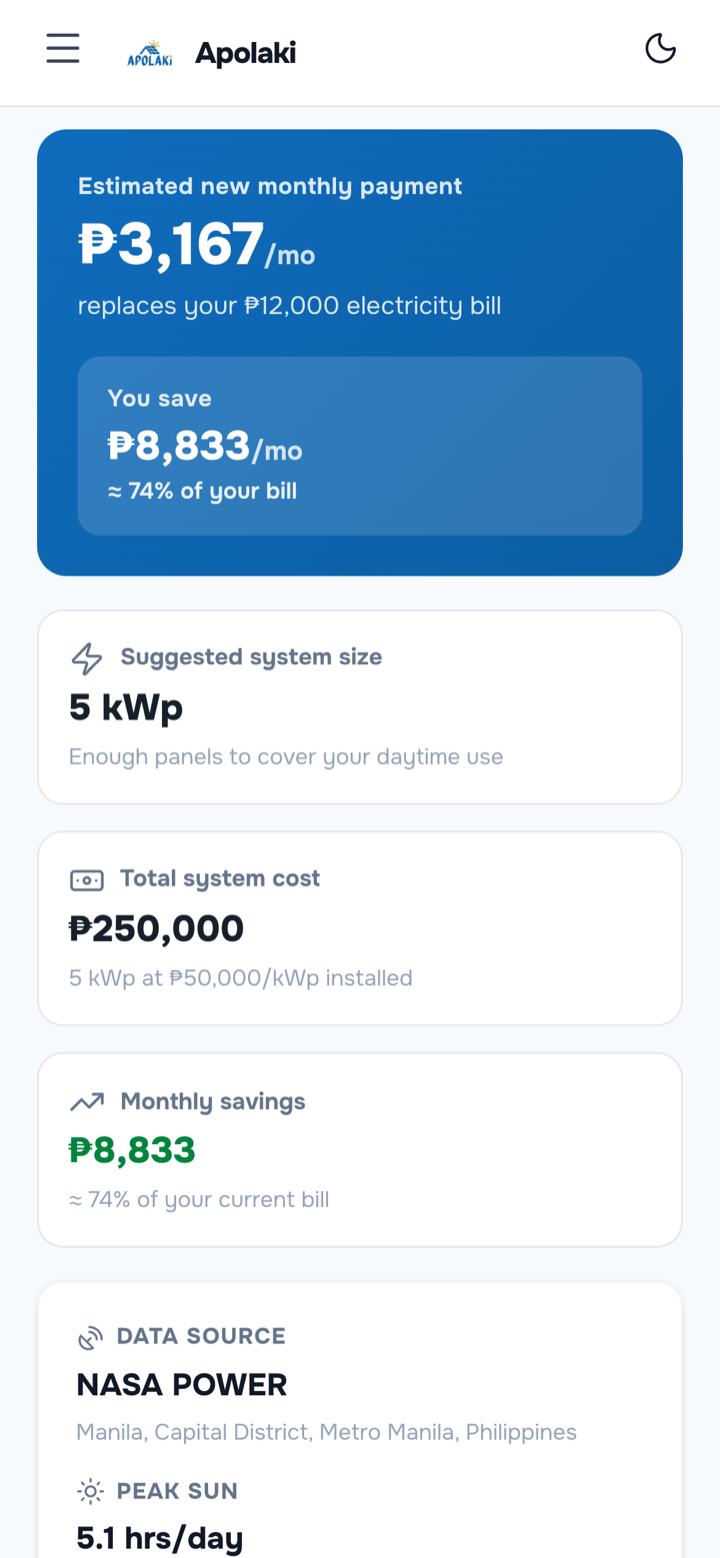
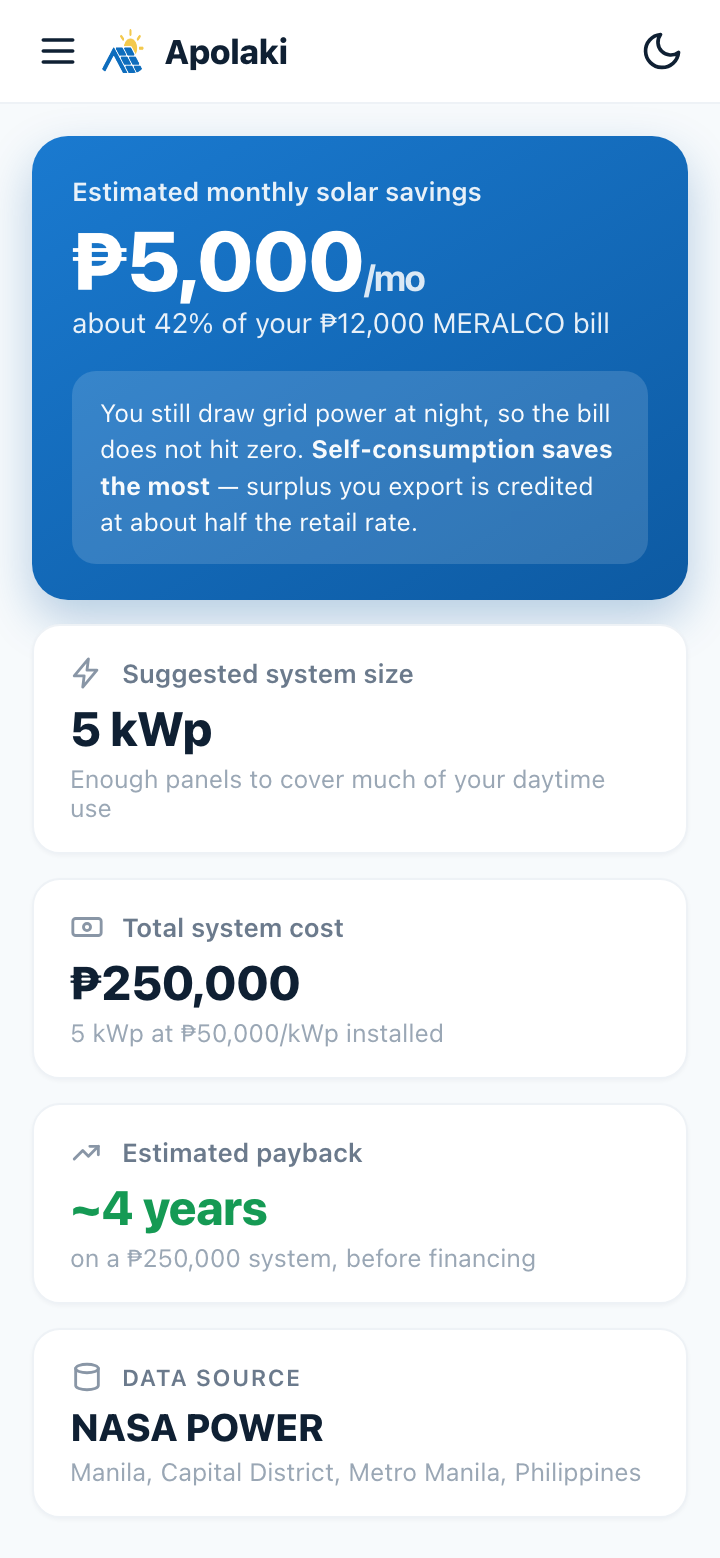
fix: correct impossible savings claim + net-billing accuracy (P0/P1)
The homepage results screenshot claimed ₱8,833/mo savings (= ₱12,000 bill
− ₱3,167 loan, a 100% bill wipe-out) — physically impossible for a 5 kWp
system (~525 kWh/mo × even the ₱14.48/kWh all-time-high = ₱7,957) and it
implied a 2.36-yr payback vs the site's own "3–5 years".

- index.html: results alt-text → realistic ~₱5,000/mo (~42% of bill), ~4-yr payback
- assets/screens/03-results.{png,webp}: regenerated (720×1558) — the impossible
  number was baked into the image (shown 2×); now ~₱5,000/mo · 5 kWp · ₱250k ·
  ~4-yr payback with a net-billing note; loan ₱3,167 → ₱5,000
- blog/is-solar-worth-it: yield reconciled 0.80 PR/1,450/7,250 → 0.73/1,320/6,600
  (was ~10% above the homepage basis)
- net-metering + meralco pages: 1:1 "billed only for net usage" → net-BILLING
  (exports credited at ~half the retail rate); visible copy + JSON-LD
- netlify.toml: 301 apolaki-ph.netlify.app/* → apolaki.ai (duplicate-host)

Basis: conservative 70% derate × 5 peak-sun-h × 30 d = 525 kWh/mo; MERALCO
retail ~₱13.50/kWh (verified); PH net-billing exports ~₱6–7/kWh.

Claude-Session: https://claude.ai/code/session_01VHmsiGHSRRyWzPMxFCksHG

diff --git a/blog/is-solar-worth-it-philippines-2026.html b/blog/is-solar-worth-it-philippines-2026.html
@@ -80,12 +80,12 @@
 
       <h2>The honest economics: a 5 kW worked example</h2>
       <p>Let us walk through real numbers instead of brochure promises. A useful planning figure for a quality installed system in 2026 is around <strong>₱50,000 per kW</strong> — that includes panels, inverter, mounting, wiring and labour. Treat it as a guide, not a quote; sites vary. A typical Metro Manila home that wants to cover most of its daytime use lands around <strong>5 kW</strong>, which works out to roughly <strong>₱250,000</strong> installed.</p>
-      <p>Now the production side. Metro Manila gets about <strong>1,817 sun-hours a year</strong>. After real-world losses — heat, dust, wiring, inverter conversion — a well-designed rooftop array delivers around a <strong>0.80 performance ratio</strong>, which lands at roughly <strong>1,450 kWh per kW per year</strong>. So our 5 kW system makes about <strong>7,250 kWh a year</strong>.</p>
+      <p>Now the production side. Metro Manila gets about <strong>1,817 sun-hours a year</strong>. After real-world losses — heat, dust, wiring, inverter conversion — a well-designed rooftop array delivers around a <strong>0.73 performance ratio</strong>, which lands at roughly <strong>1,320 kWh per kW per year</strong>. So our 5 kW system makes about <strong>6,600 kWh a year</strong>.</p>
       <p>At a blended rate of about <strong>₱11.50 per kWh</strong>, here is what that energy is worth:</p>
       <ul>
         <li><strong>System size:</strong> 5 kW · about ₱250,000 installed (at ~₱50,000/kW)</li>
-        <li><strong>Annual generation:</strong> ~7,250 kWh (5 kW × ~1,450 kWh/kW/yr at ~0.80 PR)</li>
-        <li><strong>Value of that energy:</strong> ~7,250 kWh × ₱11.50 ≈ <strong>₱83,000 a year</strong> when you use or offset most of it</li>
+        <li><strong>Annual generation:</strong> ~6,600 kWh (5 kW × ~1,320 kWh/kW/yr at ~0.73 PR)</li>
+        <li><strong>Value of that energy:</strong> ~6,600 kWh × ₱11.50 ≈ <strong>₱76,000 a year</strong> when you use or offset most of it</li>
         <li><strong>Simple payback:</strong> commonly <strong>3–5 years</strong>, depending on how much you self-consume</li>
         <li><strong>After payback:</strong> the system keeps producing for a decade or more — that is years of largely free daytime power</li>
       </ul>
@@ -111,7 +111,7 @@
         <li><strong>Your tariff and future rates.</strong> The blended rate you pay today, and the direction rates head next, both shift the value of every kilowatt-hour you displace.</li>
         <li><strong>System sizing.</strong> Oversizing wastes money on exports credited cheaply; undersizing leaves savings on the table. Right-sizing to your usage profile is most of the job.</li>
       </ul>
-      <p>This is exactly why we will not hand you a single national "payback number" and call it advice. The ranges in this article — ~₱50,000/kW, ~1,450 kWh/kW/yr, ~₱11.50/kWh, 3–5 years — are honest planning figures, not your result.</p>
+      <p>This is exactly why we will not hand you a single national "payback number" and call it advice. The ranges in this article — ~₱50,000/kW, ~1,320 kWh/kW/yr, ~₱11.50/kWh, 3–5 years — are honest planning figures, not your result.</p>
 
       <h2>So, is it worth it? Start from your bill</h2>
       <p>For a large share of Filipino homeowners in 2026, with rates elevated and hardware cheaper, the answer is a reasonable yes — particularly if you have a healthy daytime load and a bill on the higher side. But "reasonable yes in general" is not a decision you can act on. The only way to know <strong>your</strong> number is to start from <strong>your</strong> bill.</p>

diff --git a/net-metering-philippines.html b/net-metering-philippines.html
@@ -28,7 +28,7 @@
   <link rel="stylesheet" href="https://fonts.googleapis.com/css2?family=Onest:wght@400;500;600;700;800&display=swap" media="print" onload="this.media='all'">
   <noscript><link rel="stylesheet" href="https://fonts.googleapis.com/css2?family=Onest:wght@400;500;600;700;800&display=swap"></noscript>
   <link rel="stylesheet" href="/css/styles.css">
-  <script type="application/ld+json">{"@context": "https://schema.org", "@graph": [{"@type": "WebPage", "@id": "https://apolaki.ai/net-metering-philippines.html#webpage", "url": "https://apolaki.ai/net-metering-philippines.html", "name": "Net Metering Philippines — How It Works (Up to 100 kW)", "isPartOf": {"@id": "https://apolaki.ai/#website"}, "about": {"@id": "https://apolaki.ai/#org"}, "description": "Understand net metering in the Philippines: how solar export credits work, the 100 kW limit, application steps, and how it changes your payback.", "inLanguage": "en-PH"}, {"@type": "BreadcrumbList", "itemListElement": [{"@type": "ListItem", "position": 1, "name": "Home", "item": "https://apolaki.ai/"}, {"@type": "ListItem", "position": 2, "name": "Net metering", "item": "https://apolaki.ai/net-metering-philippines.html"}]}, {"@type": "Service", "serviceType": "Net metering guidance", "provider": {"@id": "https://apolaki.ai/#org"}, "areaServed": {"@type": "Country", "name": "Philippines"}, "name": "Net Metering Philippines — How It Works (Up to 100 kW)", "url": "https://apolaki.ai/net-metering-philippines.html", "description": "Understand net metering in the Philippines: how solar export credits work, the 100 kW limit, application steps, and how it changes your payback."}, {"@type": "FAQPage", "mainEntity": [{"@type": "Question", "name": "What is net metering in simple terms?", "acceptedAnswer": {"@type": "Answer", "text": "It lets your grid-tied solar export surplus power to the utility for credit, so you are billed only for your net usage. In the Philippines it applies to systems up to 100 kW."}}, {"@type": "Question", "name": "Do I need a battery if I have net metering?", "acceptedAnswer": {"@type": "Answer", "text": "Usually not for savings. The grid credits your surplus, so net metering does the job a battery would for economics. Batteries mainly add backup during brownouts."}}, {"@type": "Question", "name": "How do I apply for net metering?", "acceptedAnswer": {"@type": "Answer", "text": "Your installer typically handles the application with your utility as part of a grid-tied install. Our step-by-step guide walks through what is involved."}}, {"@type": "Question", "name": "Does net metering pay me cash?", "acceptedAnswer": {"@type": "Answer", "text": "It credits energy against your bill rather than paying cash. Net export credits carry over to reduce future bills."}}]}]}</script>
+  <script type="application/ld+json">{"@context": "https://schema.org", "@graph": [{"@type": "WebPage", "@id": "https://apolaki.ai/net-metering-philippines.html#webpage", "url": "https://apolaki.ai/net-metering-philippines.html", "name": "Net Metering Philippines — How It Works (Up to 100 kW)", "isPartOf": {"@id": "https://apolaki.ai/#website"}, "about": {"@id": "https://apolaki.ai/#org"}, "description": "Understand net metering in the Philippines: how solar export credits work, the 100 kW limit, application steps, and how it changes your payback.", "inLanguage": "en-PH"}, {"@type": "BreadcrumbList", "itemListElement": [{"@type": "ListItem", "position": 1, "name": "Home", "item": "https://apolaki.ai/"}, {"@type": "ListItem", "position": 2, "name": "Net metering", "item": "https://apolaki.ai/net-metering-philippines.html"}]}, {"@type": "Service", "serviceType": "Net metering guidance", "provider": {"@id": "https://apolaki.ai/#org"}, "areaServed": {"@type": "Country", "name": "Philippines"}, "name": "Net Metering Philippines — How It Works (Up to 100 kW)", "url": "https://apolaki.ai/net-metering-philippines.html", "description": "Understand net metering in the Philippines: how solar export credits work, the 100 kW limit, application steps, and how it changes your payback."}, {"@type": "FAQPage", "mainEntity": [{"@type": "Question", "name": "What is net metering in simple terms?", "acceptedAnswer": {"@type": "Answer", "text": "It lets your grid-tied solar export surplus power to the utility for a credit — valued at the lower generation rate, not the full retail rate you pay to import — so the biggest savings come from using your solar as you make it. In the Philippines it applies to systems up to 100 kW."}}, {"@type": "Question", "name": "Do I need a battery if I have net metering?", "acceptedAnswer": {"@type": "Answer", "text": "Usually not for savings. The grid credits your surplus, so net metering does the job a battery would for economics. Batteries mainly add backup during brownouts."}}, {"@type": "Question", "name": "How do I apply for net metering?", "acceptedAnswer": {"@type": "Answer", "text": "Your installer typically handles the application with your utility as part of a grid-tied install. Our step-by-step guide walks through what is involved."}}, {"@type": "Question", "name": "Does net metering pay me cash?", "acceptedAnswer": {"@type": "Answer", "text": "It credits energy against your bill rather than paying cash. Net export credits carry over to reduce future bills."}}]}]}</script>
 </head>
 <body>
 <a class="skip-link" href="#main">Skip to content</a>
@@ -59,7 +59,7 @@
     <p class="breadcrumb"><a href="/">Home</a> / Net metering</p>
     <span class="eyebrow">Grid-tied · export credits</span>
     <h1>How <span class="accent">net metering</span> works in the Philippines</h1>
-    <p class="lead">Net metering is what makes grid-tied solar pay off for most Filipino homes. It lets you export the solar you do not use and get credited for it — so you are billed only for your net consumption. Here is how it works, who it is for, and how it changes your numbers.</p>
+    <p class="lead">Net metering is what makes grid-tied solar pay off for most Filipino homes. It lets you export the solar you do not use and earn a credit against your bill — valued at the utility's generation rate, which is lower than the retail rate you pay to import, so the biggest wins come from using your solar as you make it. Here is how it works, who it is for, and how it changes your numbers.</p>
     <div class="btn-row" style="margin-top:22px">
       <a class="btn btn-primary btn-lg" href="https://apolaki-478302.web.app/assessment">Check my solar savings
         <svg viewBox="0 0 24 24" fill="none" stroke="currentColor" stroke-width="2.2" stroke-linecap="round" stroke-linejoin="round"><path d="M5 12h14M13 6l6 6-6 6"/></svg></a>
@@ -71,7 +71,7 @@
   <div class="wrap wrap-narrow prose">
     <span class="eyebrow">The basics</span>
     <h2>Export what you don't use, get credited</h2>
-    <p>A grid-tied solar system sends any power you do not use straight to the distribution grid. Under the Philippines' net-metering program, your utility credits that exported energy against the power you import — you pay only for the difference. The scheme applies to systems up to 100 kW, which covers essentially every home and most small businesses.</p>
+    <p>A grid-tied solar system sends any power you do not use straight to the distribution grid. Under the Philippines' net-metering program, your utility credits that exported energy against the power you import — but the credit is valued at the generation charge, roughly half the retail rate you pay, so using your solar directly during the day saves the most. The scheme applies to systems up to 100 kW, which covers essentially every home and most small businesses.</p>
   </div>
 </section>
 <section class="section">
@@ -88,7 +88,7 @@
     <div class="faq-list">
         <details class="faq-item" open>
           <summary>What is net metering in simple terms?<span class="pm"><svg viewBox="0 0 24 24" fill="none" stroke="currentColor" stroke-width="2.4" stroke-linecap="round"><path d="M12 5v14M5 12h14"/></svg></span></summary>
-          <div class="faq-answer"><p>It lets your grid-tied solar export surplus power to the utility for credit, so you are billed only for your net usage. In the Philippines it applies to systems up to 100 kW.</p></div>
+          <div class="faq-answer"><p>It lets your grid-tied solar export surplus power to the utility for a credit — valued at the lower generation rate, not the full retail rate you pay to import — so the biggest savings come from using your solar as you make it. In the Philippines it applies to systems up to 100 kW.</p></div>
         </details>
         <details class="faq-item">
           <summary>Do I need a battery if I have net metering?<span class="pm"><svg viewBox="0 0 24 24" fill="none" stroke="currentColor" stroke-width="2.4" stroke-linecap="round"><path d="M12 5v14M5 12h14"/></svg></span></summary>

diff --git a/meralco-solar-bill-savings.html b/meralco-solar-bill-savings.html
@@ -28,7 +28,7 @@
   <link rel="stylesheet" href="https://fonts.googleapis.com/css2?family=Onest:wght@400;500;600;700;800&display=swap" media="print" onload="this.media='all'">
   <noscript><link rel="stylesheet" href="https://fonts.googleapis.com/css2?family=Onest:wght@400;500;600;700;800&display=swap"></noscript>
   <link rel="stylesheet" href="/css/styles.css">
-  <script type="application/ld+json">{"@context": "https://schema.org", "@graph": [{"@type": "WebPage", "@id": "https://apolaki.ai/meralco-solar-bill-savings.html#webpage", "url": "https://apolaki.ai/meralco-solar-bill-savings.html", "name": "MERALCO Bill Solar Savings — See Yours Free", "isPartOf": {"@id": "https://apolaki.ai/#website"}, "about": {"@id": "https://apolaki.ai/#org"}, "description": "Cut your MERALCO bill with solar. Estimate your monthly savings from your actual bill, understand net metering credits, and see payback — free, no cold calls.", "inLanguage": "en-PH"}, {"@type": "BreadcrumbList", "itemListElement": [{"@type": "ListItem", "position": 1, "name": "Home", "item": "https://apolaki.ai/"}, {"@type": "ListItem", "position": 2, "name": "MERALCO bill savings", "item": "https://apolaki.ai/meralco-solar-bill-savings.html"}]}, {"@type": "Service", "serviceType": "MERALCO solar savings estimate", "provider": {"@id": "https://apolaki.ai/#org"}, "areaServed": {"@type": "Country", "name": "Philippines"}, "name": "MERALCO Bill Solar Savings — See Yours Free", "url": "https://apolaki.ai/meralco-solar-bill-savings.html", "description": "Cut your MERALCO bill with solar. Estimate your monthly savings from your actual bill, understand net metering credits, and see payback — free, no cold calls."}, {"@type": "FAQPage", "mainEntity": [{"@type": "Question", "name": "How much can solar cut my MERALCO bill?", "acceptedAnswer": {"@type": "Answer", "text": "Many Metro Manila homes offset well over half of their bill, and some far more, depending on daytime usage. Your assessment estimates the figure from your actual bill rather than an average."}}, {"@type": "Question", "name": "Does net metering work with MERALCO?", "acceptedAnswer": {"@type": "Answer", "text": "Yes. MERALCO supports net metering for systems up to 100 kW; your exported solar is credited against what you draw, and net credits carry to the next bill."}}, {"@type": "Question", "name": "Will my bill ever hit zero?", "acceptedAnswer": {"@type": "Answer", "text": "Usually not entirely — fixed charges and night-time grid use remain. The goal is a much lower, more predictable monthly cost, which the assessment shows you."}}, {"@type": "Question", "name": "How fast does it pay back?", "acceptedAnswer": {"@type": "Answer", "text": "For a well-sized grid-tied system, commonly about three to five years in the current rate environment. Your payback depends on your bill, roof and system size."}}]}]}</script>
+  <script type="application/ld+json">{"@context": "https://schema.org", "@graph": [{"@type": "WebPage", "@id": "https://apolaki.ai/meralco-solar-bill-savings.html#webpage", "url": "https://apolaki.ai/meralco-solar-bill-savings.html", "name": "MERALCO Bill Solar Savings — See Yours Free", "isPartOf": {"@id": "https://apolaki.ai/#website"}, "about": {"@id": "https://apolaki.ai/#org"}, "description": "Cut your MERALCO bill with solar. Estimate your monthly savings from your actual bill, understand net metering credits, and see payback — free, no cold calls.", "inLanguage": "en-PH"}, {"@type": "BreadcrumbList", "itemListElement": [{"@type": "ListItem", "position": 1, "name": "Home", "item": "https://apolaki.ai/"}, {"@type": "ListItem", "position": 2, "name": "MERALCO bill savings", "item": "https://apolaki.ai/meralco-solar-bill-savings.html"}]}, {"@type": "Service", "serviceType": "MERALCO solar savings estimate", "provider": {"@id": "https://apolaki.ai/#org"}, "areaServed": {"@type": "Country", "name": "Philippines"}, "name": "MERALCO Bill Solar Savings — See Yours Free", "url": "https://apolaki.ai/meralco-solar-bill-savings.html", "description": "Cut your MERALCO bill with solar. Estimate your monthly savings from your actual bill, understand net metering credits, and see payback — free, no cold calls."}, {"@type": "FAQPage", "mainEntity": [{"@type": "Question", "name": "How much can solar cut my MERALCO bill?", "acceptedAnswer": {"@type": "Answer", "text": "Many Metro Manila homes offset well over half of their bill, and some far more, depending on daytime usage. Your assessment estimates the figure from your actual bill rather than an average."}}, {"@type": "Question", "name": "Does net metering work with MERALCO?", "acceptedAnswer": {"@type": "Answer", "text": "Yes. MERALCO supports net metering for systems up to 100 kW; your exported solar is credited against what you draw — at the lower generation rate, not the full retail rate — and net credits carry to the next bill."}}, {"@type": "Question", "name": "Will my bill ever hit zero?", "acceptedAnswer": {"@type": "Answer", "text": "Usually not entirely — fixed charges and night-time grid use remain. The goal is a much lower, more predictable monthly cost, which the assessment shows you."}}, {"@type": "Question", "name": "How fast does it pay back?", "acceptedAnswer": {"@type": "Answer", "text": "For a well-sized grid-tied system, commonly about three to five years in the current rate environment. Your payback depends on your bill, roof and system size."}}]}]}</script>
 </head>
 <body>
 <a class="skip-link" href="#main">Skip to content</a>
@@ -92,7 +92,7 @@
         </details>
         <details class="faq-item">
           <summary>Does net metering work with MERALCO?<span class="pm"><svg viewBox="0 0 24 24" fill="none" stroke="currentColor" stroke-width="2.4" stroke-linecap="round"><path d="M12 5v14M5 12h14"/></svg></span></summary>
-          <div class="faq-answer"><p>Yes. MERALCO supports net metering for systems up to 100 kW; your exported solar is credited against what you draw, and net credits carry to the next bill.</p></div>
+          <div class="faq-answer"><p>Yes. MERALCO supports net metering for systems up to 100 kW; your exported solar is credited against what you draw — at the lower generation rate, not the full retail rate — and net credits carry to the next bill.</p></div>
         </details>
         <details class="faq-item">
           <summary>Will my bill ever hit zero?<span class="pm"><svg viewBox="0 0 24 24" fill="none" stroke="currentColor" stroke-width="2.4" stroke-linecap="round"><path d="M12 5v14M5 12h14"/></svg></span></summary>

diff --git a/index.html b/index.html
@@ -164,7 +164,7 @@
     </div>
     <div class="showcase-media media-glow reveal d1">
       <div class="device tilt">
-        <div class="device-screen"><picture><source type="image/webp" srcset="/assets/screens/03-results.webp"><img src="/assets/screens/03-results.png" alt="Apolaki assessment results — a ₱12,000 monthly bill replaced by a ₱3,167 solar payment, ₱8,833 estimated monthly savings, and a recommended 5 kWp system at ₱250,000" width="308" height="640" loading="lazy"></picture></div>
+        <div class="device-screen"><picture><source type="image/webp" srcset="/assets/screens/03-results.webp"><img src="/assets/screens/03-results.png" alt="Apolaki assessment results — an estimated ₱5,000 per month in solar savings (about 42% of a ₱12,000 MERALCO bill) from a recommended 5 kWp system at ₱250,000, with payback in about four years; illustrative example, your actual figures vary" width="308" height="640" loading="lazy"></picture></div>
       </div>
     </div>
   </div>